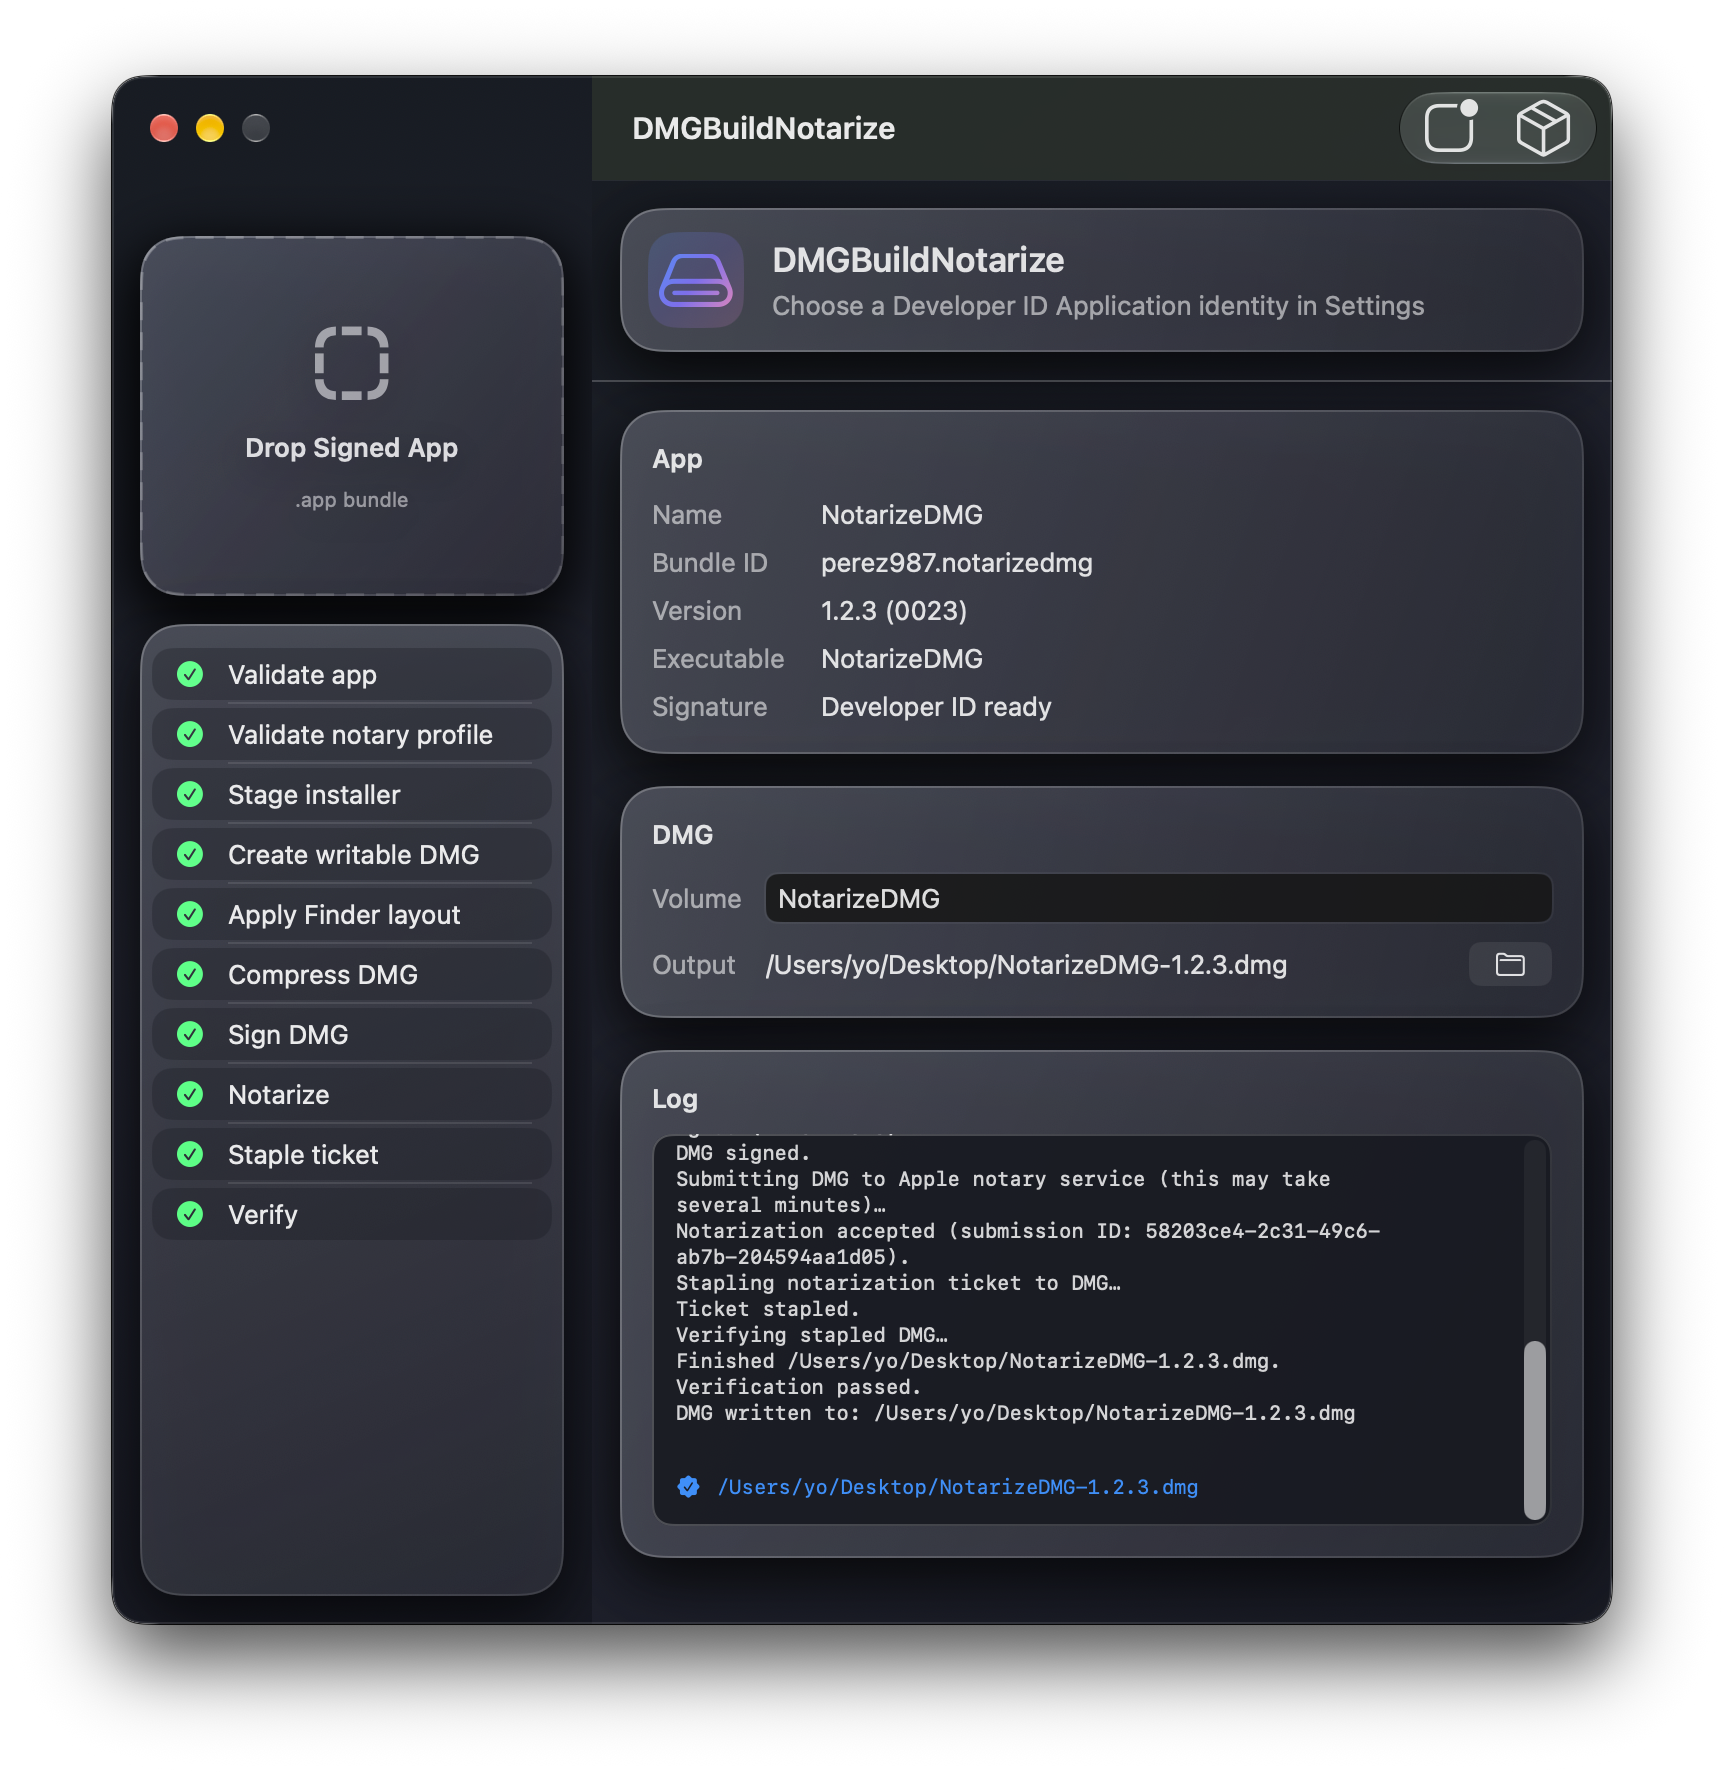
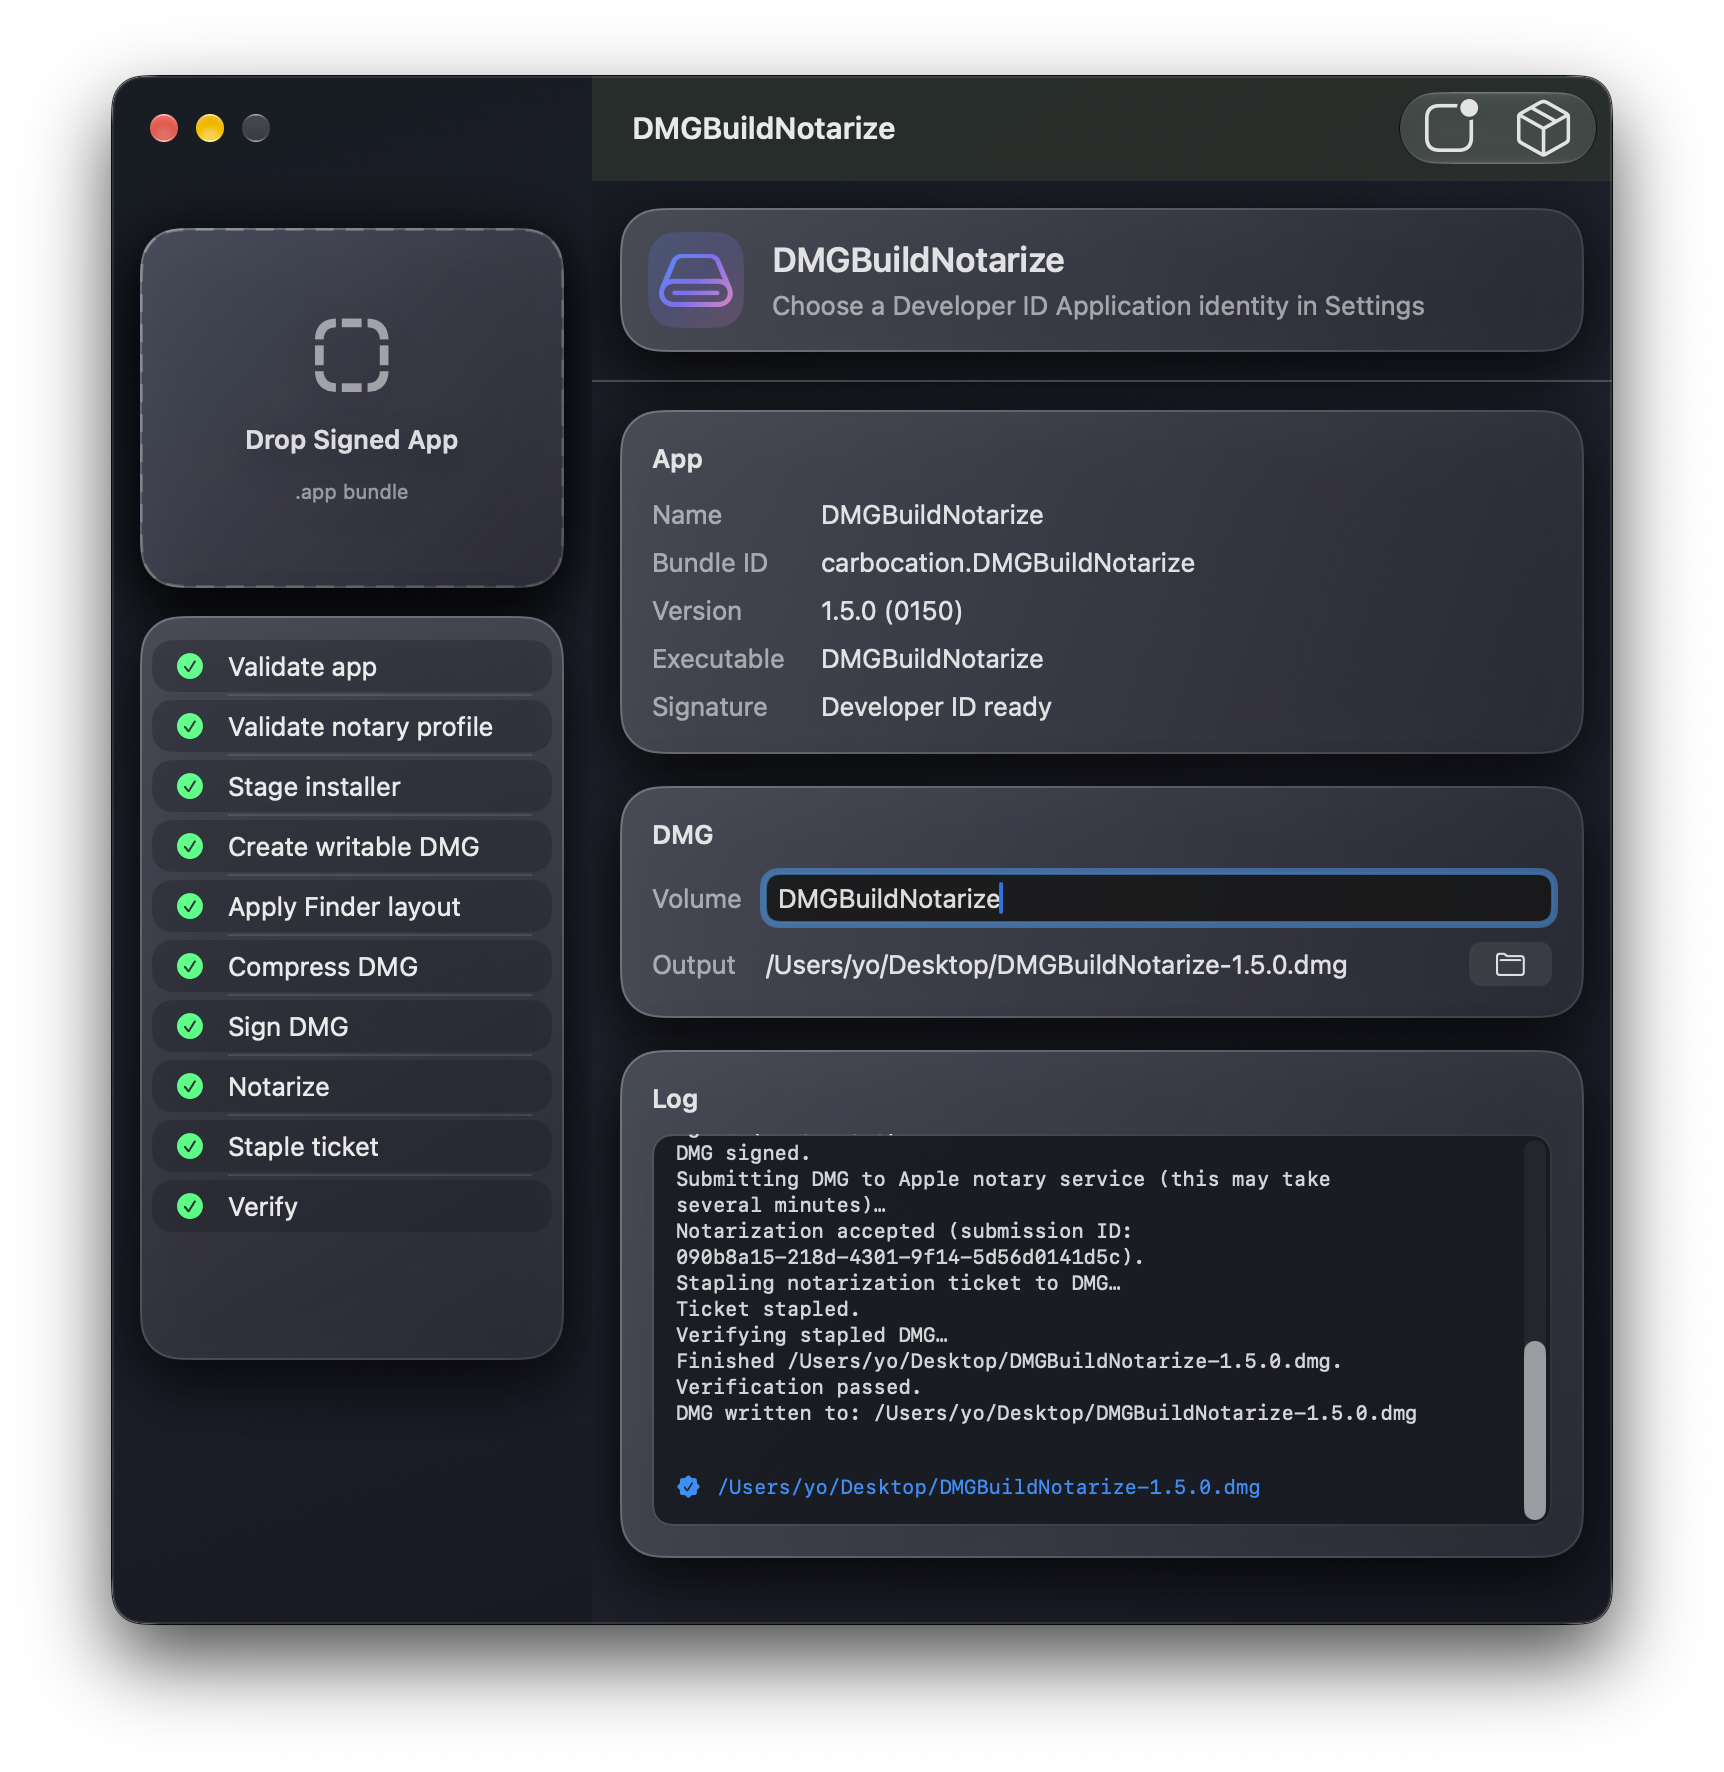
Refine stage list layout and window spacing

diff --git a/DMGBuildNotarize/Views/StageListView.swift b/DMGBuildNotarize/Views/StageListView.swift
@@ -27,7 +27,14 @@ struct StageListView: View {
         }
         .listStyle(.inset)
         .scrollContentBackground(.hidden)
+        .frame(height: listHeight)
         .glassCard(colorScheme: colorScheme, cornerRadius: 20, accentOpacity: 0.16)
+    }
+
+    private var listHeight: CGFloat {
+        let rowHeight: CGFloat = 34
+        let verticalInsets: CGFloat = 32
+        return (CGFloat(stages.count) * rowHeight) + verticalInsets
     }
 
     private func symbol(for state: StageState) -> String {

diff --git a/DMGBuildNotarize/Views/ContentView.swift b/DMGBuildNotarize/Views/ContentView.swift
@@ -29,7 +29,8 @@ struct ContentView: View {
                     .padding(.horizontal, 14)
                     .padding(.bottom, 14)
             }
-            .padding(.top, 14)
+            .frame(maxWidth: .infinity, maxHeight: .infinity, alignment: .top)
+            .padding(.top, 10)
             .background(AppTheme.windowGradient(for: colorScheme))
             .toolbar(removing: .sidebarToggle)
             .navigationSplitViewColumnWidth(min: 240, ideal: 240, max: 240)
